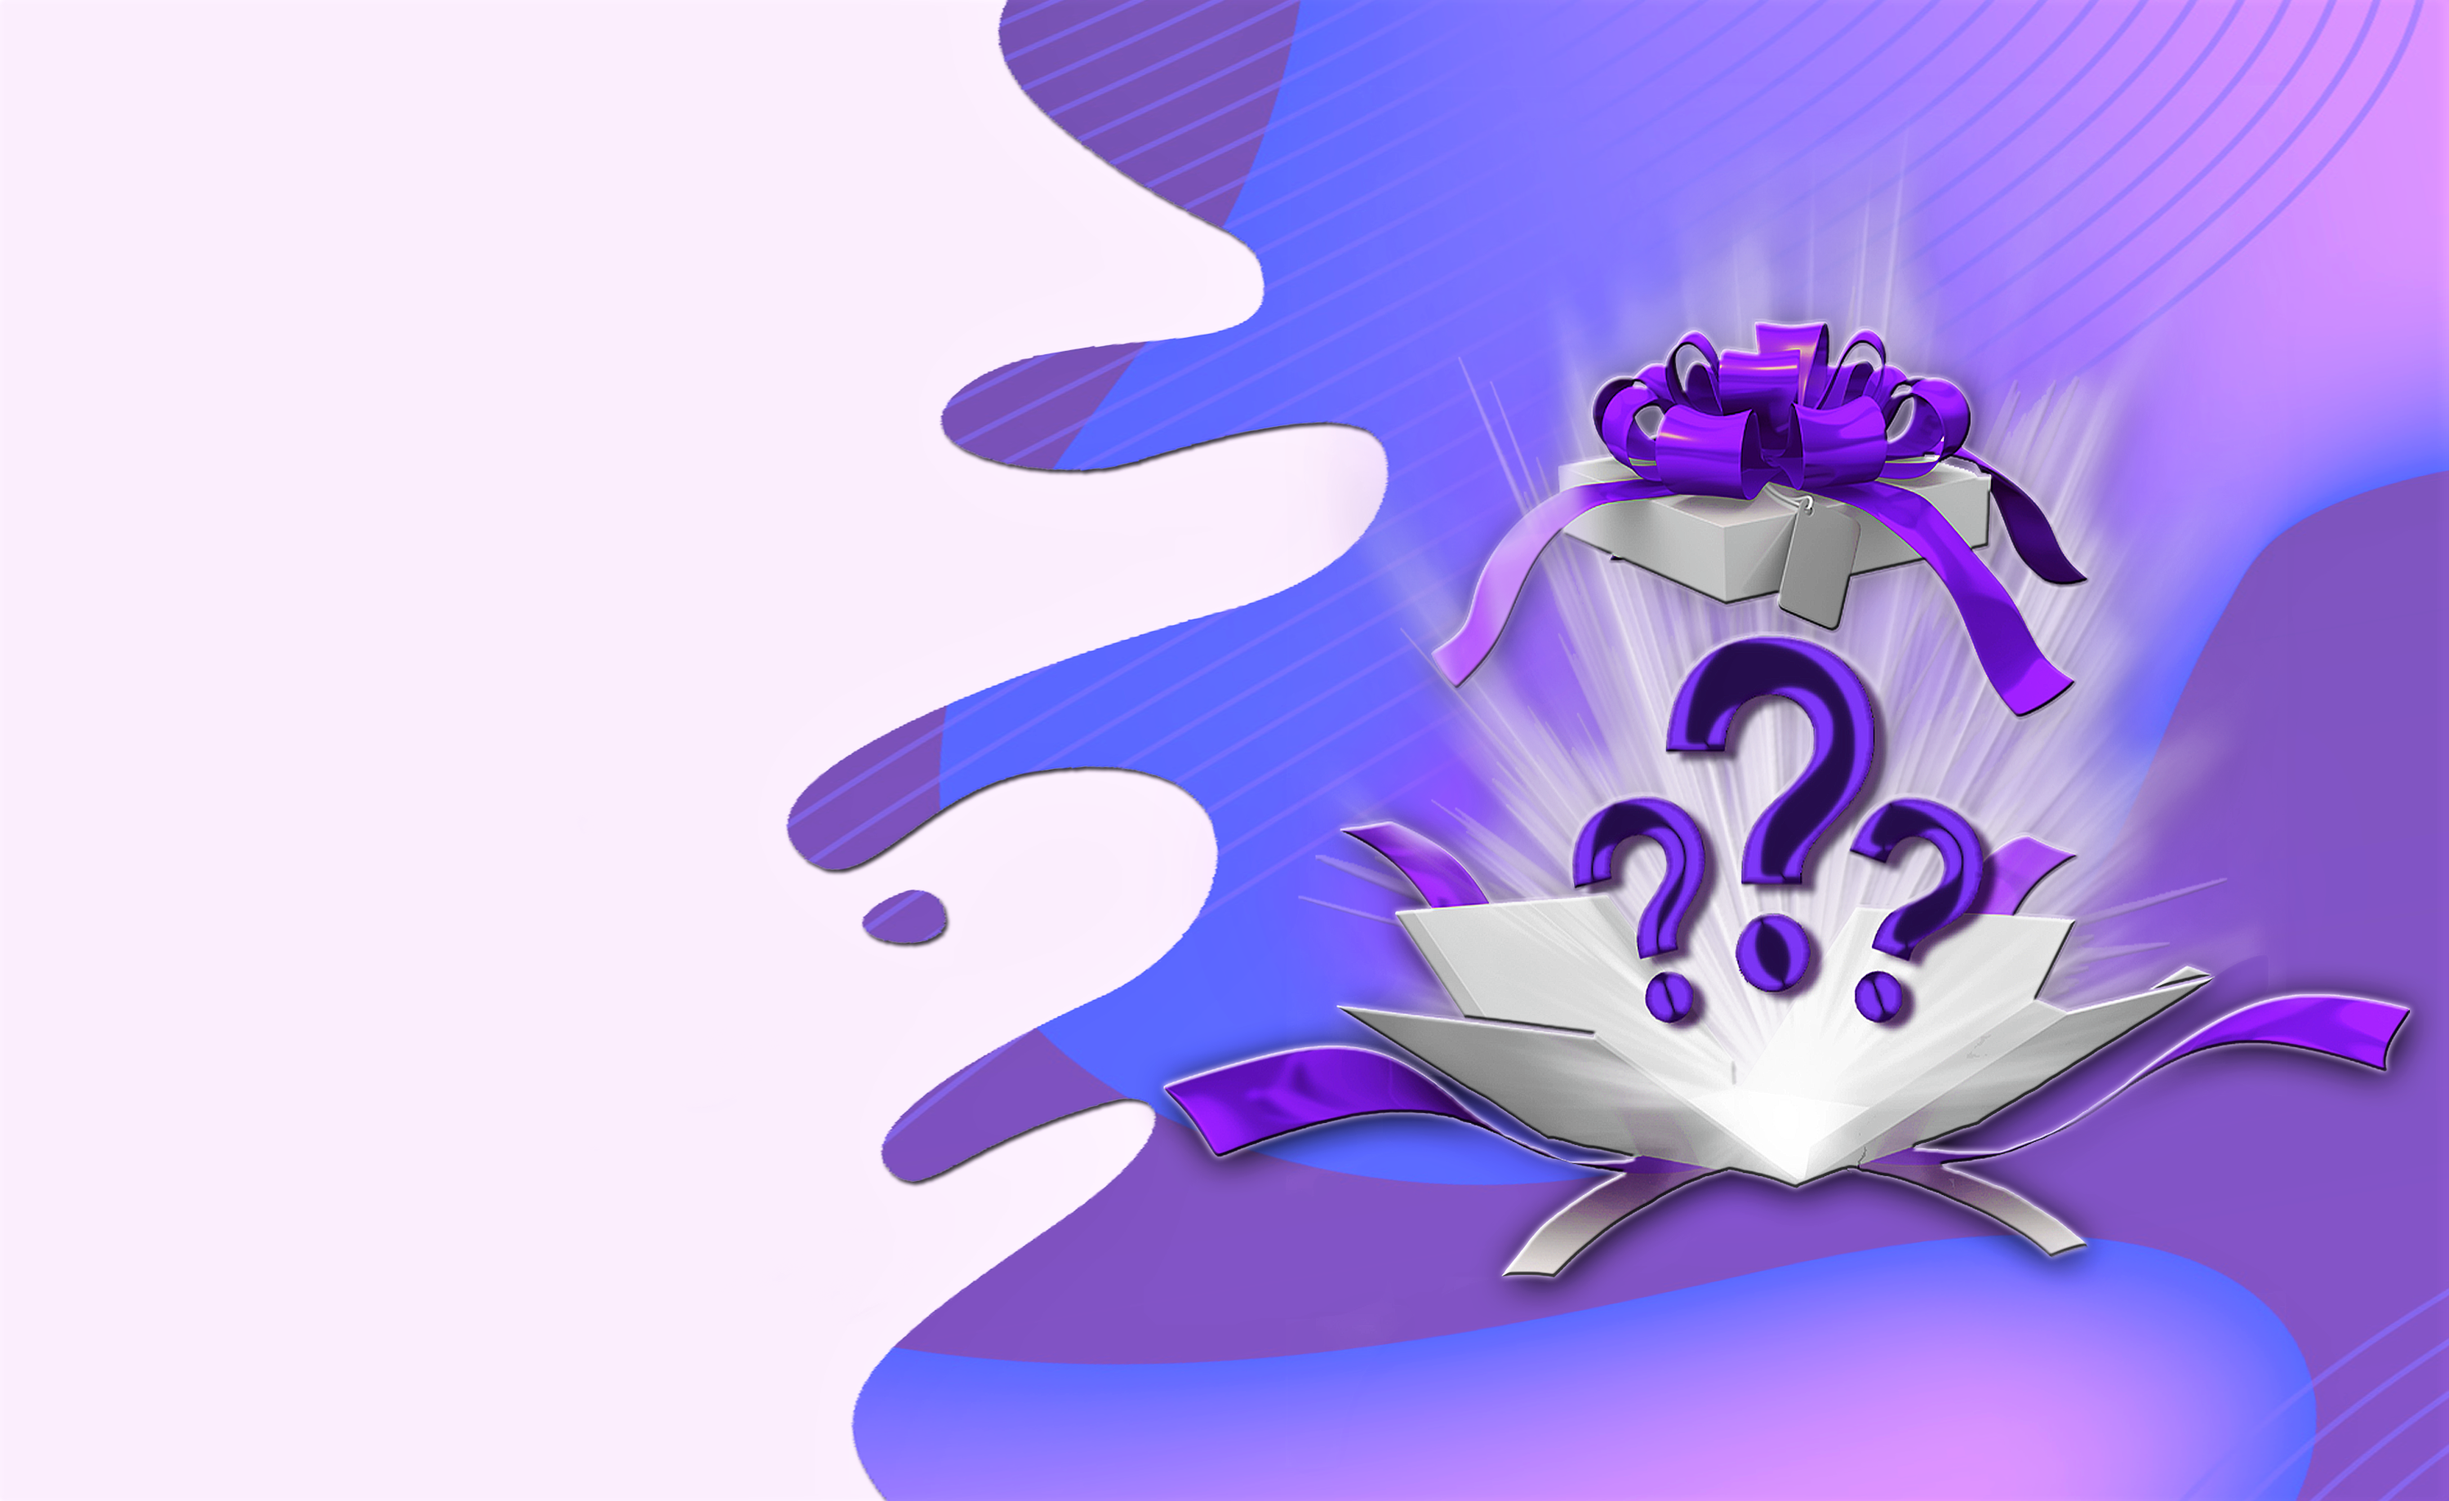
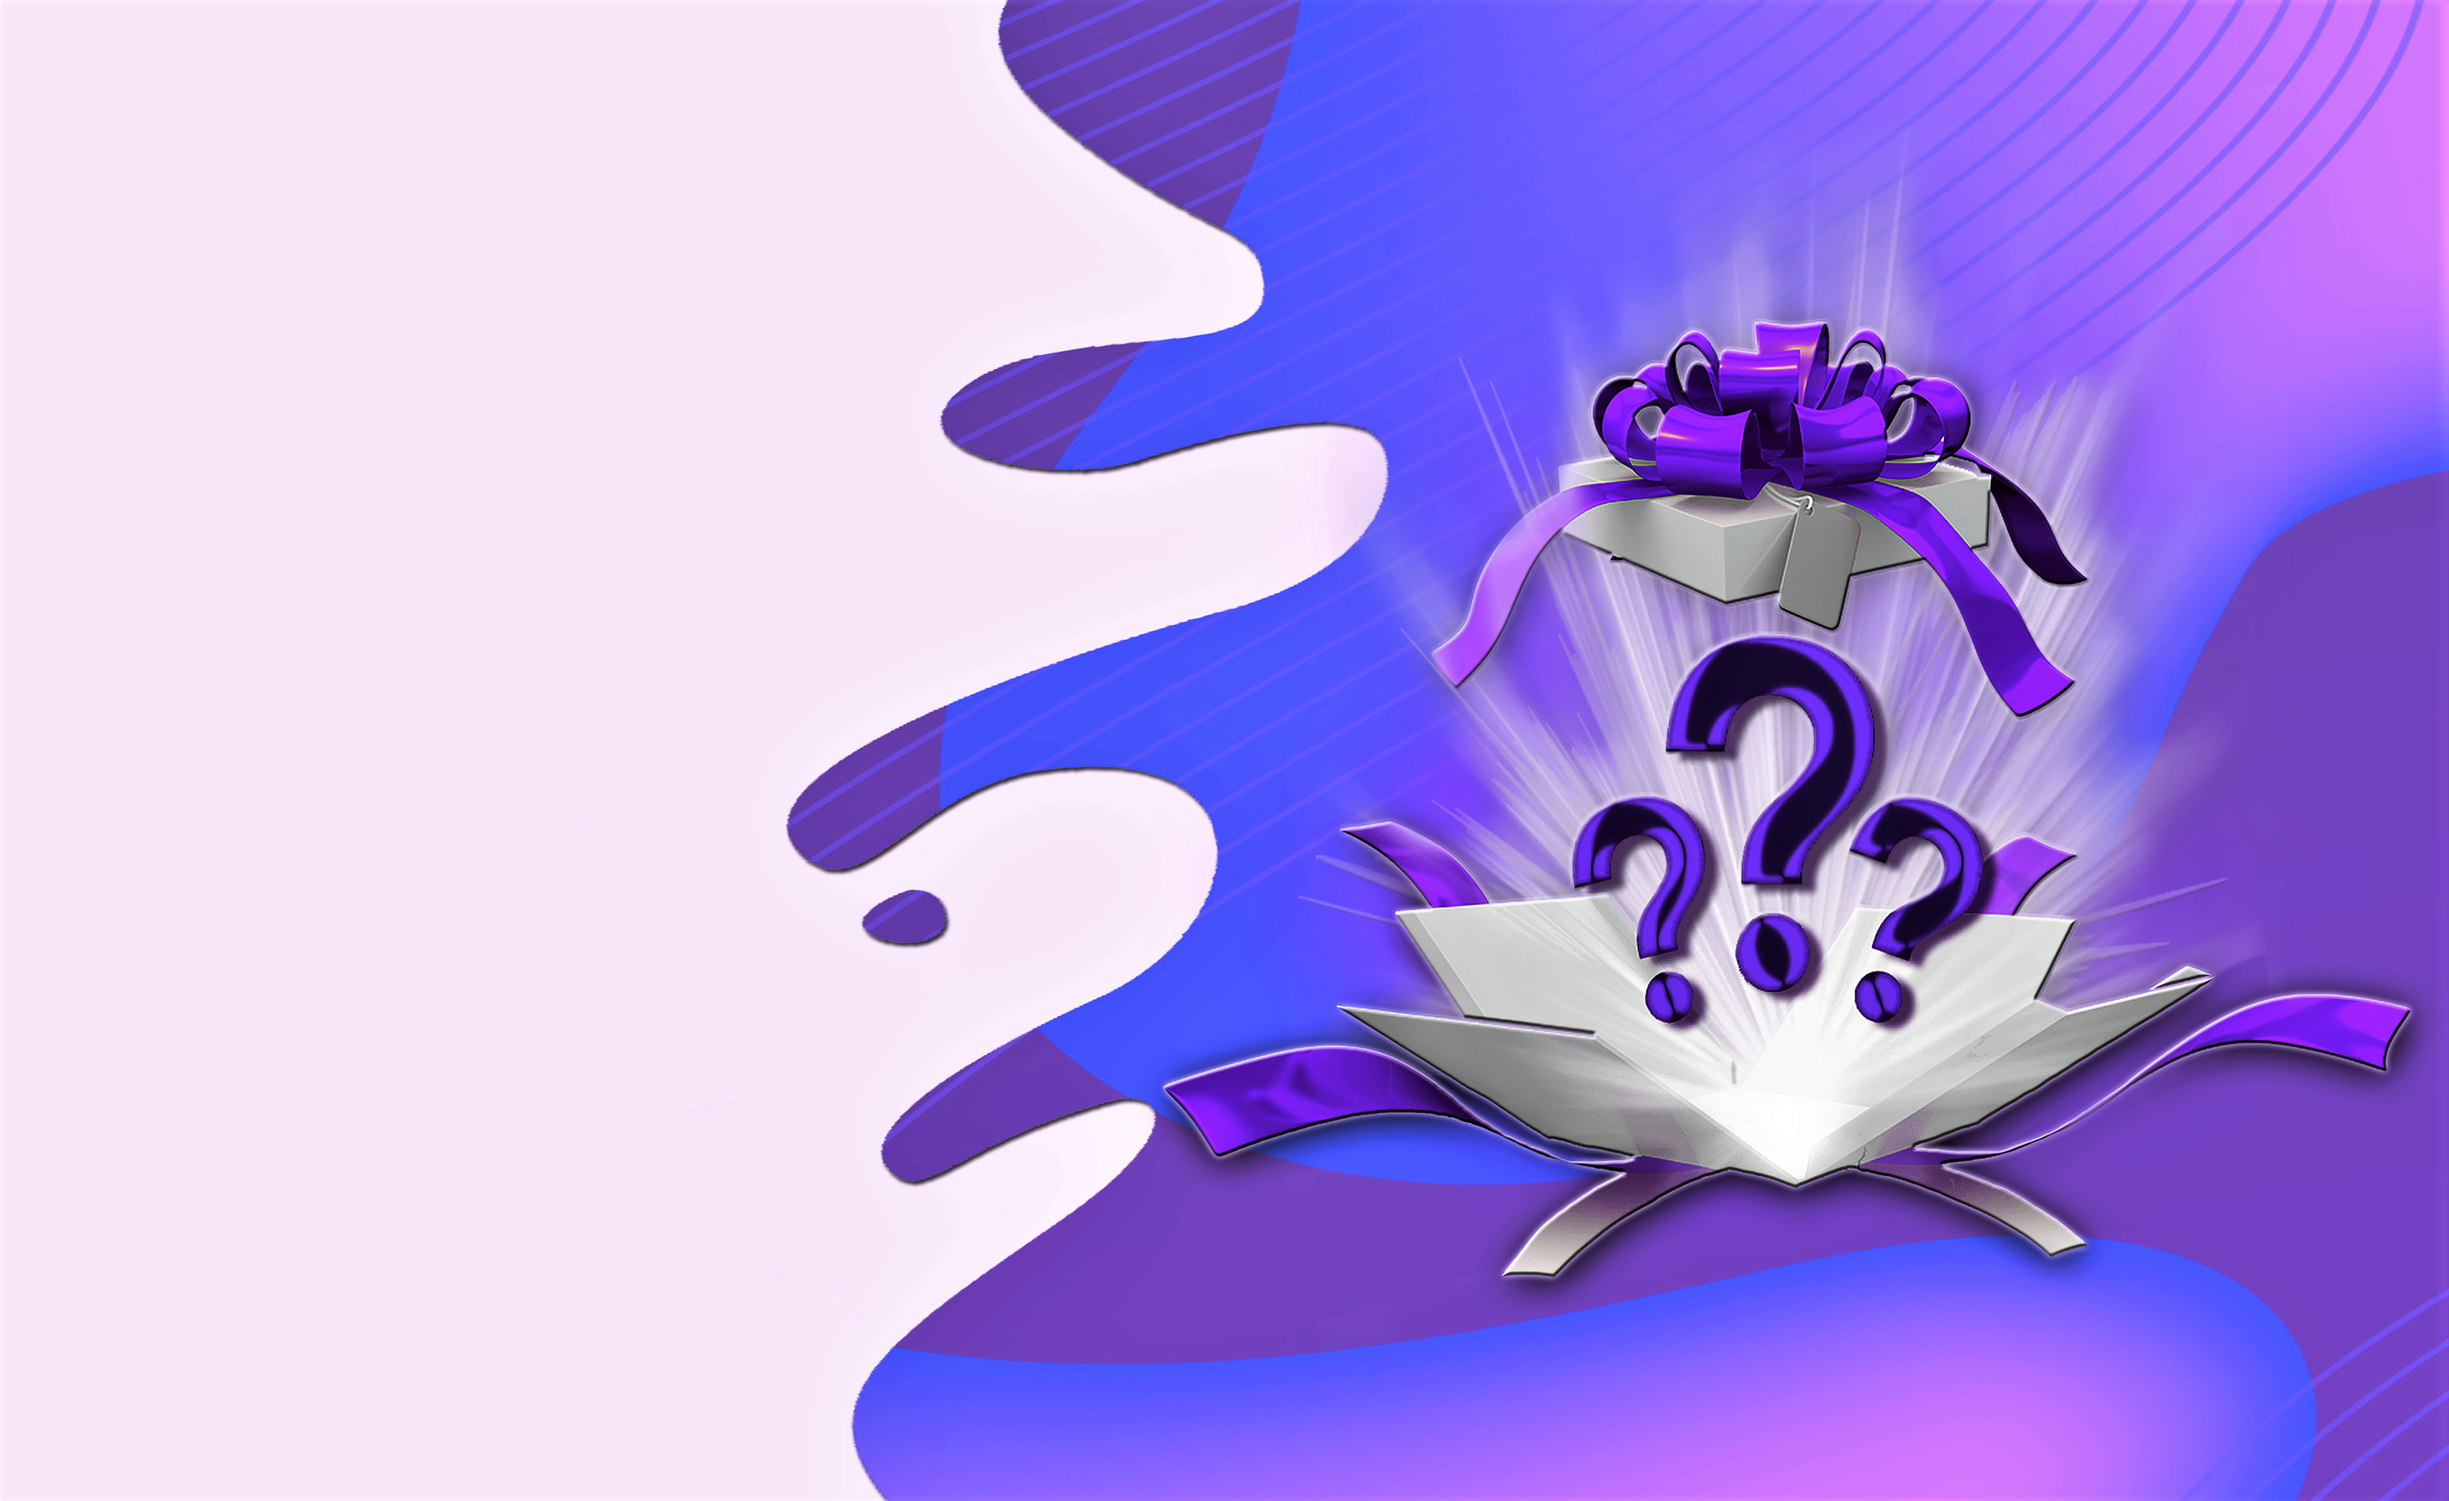
arreglo colores y subo api

diff --git a/styles.css b/styles.css
@@ -9,7 +9,7 @@ html{
 }
 
 body {
-    background-color: #fcefff;
+    background-color: #797979;
     margin: 0;
     font-family:'Gill Sans', 'Gill Sans MT', Calibri, 'Trebuchet MS', sans-serif;
 }
@@ -301,7 +301,7 @@ body {
     justify-content: center;
     align-items: center;    
     height: 70vh;
-    background-color: #fcefff;
+    background-color: #efe0f3;
 }
 
 .sobre-nosotros{    
@@ -397,7 +397,7 @@ h5{
     justify-content: center;
     align-items: center;
     
-    height: 50vh;
+    height: 60vh;
     background-image: url(/imagenes/fondo.jpg);
     background-size: cover;
     background-position: left;
@@ -441,7 +441,7 @@ h5{
     height: 15vh;
     bottom: 0;
     left: 0;
-    background-color: #fcefff;
+    background-color: #797979;
     display: flex;
     justify-content: center;
     align-items: center;
@@ -489,6 +489,7 @@ h5{
     max-width: 95%; 
     padding: 20px; 
     font-size: 19px; 
+
 }
 
 
@@ -499,27 +500,6 @@ h2{
     font-family: 'Abril Fatface', cursive;
 }
 
-.social-icons a{
-    text-decoration: none;
-    padding: 18px;
-    background-color: #931fff;
-    margin: 15px;
-    border-radius: 50%;
-}
-
-.social-icons a i{
-    font-size: 2em;
+.copyright{
     color: white;
-    opacity: 0.9;
-}
-
-.social-icons a:hover{
-    background-color: #af5dfc;
-    transition: 0.5s;
-}
-
-.social-icons a:hover i{
-    color: aliceblue;
-        transition: 0.5s;
-
 }

diff --git a/index.html b/index.html
@@ -162,6 +162,7 @@ const enviarMensaje = () => alert("ATENCIÓN: Esta acción borrará todos los ca
                 <a href=""><i class="fa-brands fa-linkedin"></i></a>
                 
             </div>
+            
         </div>    
         
         <span class="copyright">&copy; 2023, Codo a Codo. All Rights reserved to Erika and Natalia</span>
